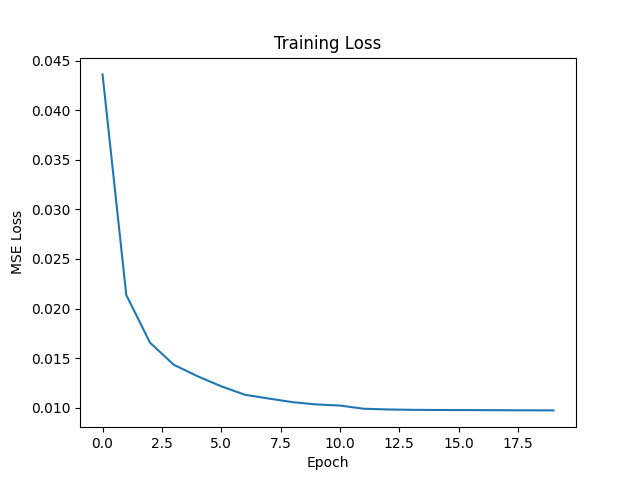
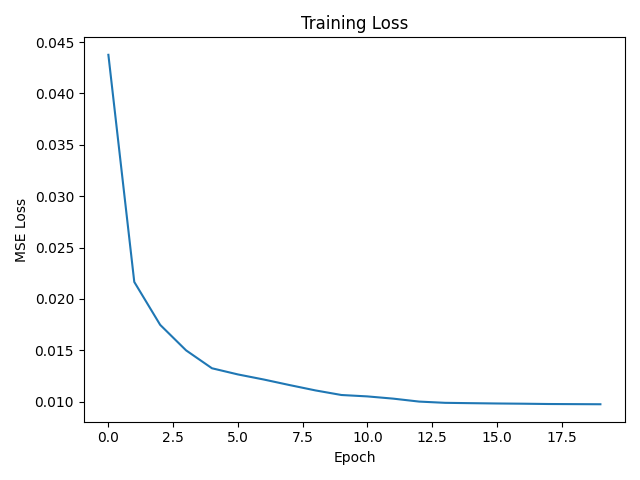
added vae and conv ae code

diff --git a/training/train.py b/training/train.py
@@ -1,6 +1,7 @@
 import os
 import sys
 import time
+
 sys.path.insert(0, os.path.dirname(os.path.dirname(os.path.abspath(__file__))))
 
 import argparse
@@ -14,6 +15,8 @@ from training.visualize import save_loss_curve, save_reconstructions
 
 def load_model(config):
     from models.v1_linear_ae import LinearAutoencoder
+    from models.v3_vae import VariationalAutoencoder
+    from models.v2_convolutional_ae import ConvolutionalAutoencoder
 
     dataset = config['dataset']
     info = DATASET_INFO[dataset]
@@ -28,10 +31,42 @@ def load_model(config):
             height=info['height'],
             width=info['width'],
         )
+    
+    elif model_name == 'v3_vae':
+        return VariationalAutoencoder(
+            input_dim=input_dim,
+            latent_dim=config['latent_dim'],
+            channels=info['channels'],
+            height=info['height'],
+            width=info['width'],
+        )
+    elif model_name == 'v2_convolutional_ae':
+        return ConvolutionalAutoencoder(
+            latent_dim=config['latent_dim'],
+            channels=info['channels'],
+            height=info['height'],
+            width=info['width'],
+        )
 
     else:
         raise ValueError(f"Unknown model: {model_name}")
 
+def vae_loss(reconstructions, images, mu, logvar):
+
+    recon_loss = nn.functional.mse_loss(
+        reconstructions,
+        images,
+        reduction='mean'
+    )
+
+    kl_loss = -0.5 * torch.mean(
+        1 + logvar - mu.pow(2) - logvar.exp()
+    )
+    beta = 0.01
+    total_loss = recon_loss + beta * kl_loss
+    return total_loss, recon_loss, kl_loss
+    
+    # return recon_loss + 0.001*kl_loss
 
 def train(config):
     device = torch.device('cuda' if torch.cuda.is_available() else 'cpu')
@@ -58,8 +93,34 @@ def train(config):
         for images, _ in train_loader:
             images = images.to(device)
 
-            reconstructions, _ = model(images)
-            loss = nn.functional.mse_loss(reconstructions, images)
+            if config['model'] == 'v3_vae':
+
+                reconstructions, mu, logvar = model(images)
+
+                loss, recon_loss, kl_loss = vae_loss(
+                    reconstructions,
+                    images,
+                    mu,
+                    logvar
+                )
+
+            elif config['model'] == 'v1_linear_ae':
+
+                reconstructions = model(images)
+
+                loss = nn.functional.mse_loss(
+                    reconstructions,
+                    images
+                )
+            
+            elif config['model'] == 'v2_convolutional_ae':
+
+                reconstructions = model(images)
+
+                loss = nn.functional.mse_loss(
+                    reconstructions,
+                    images
+                )
 
             optimiser.zero_grad()
             loss.backward()
@@ -82,7 +143,7 @@ def train(config):
     save_reconstructions(
         model, test_loader, device,
         os.path.join(config['results_dir'], filename),
-        config['dataset']
+        config['dataset'], config
     )
 
     print("Training complete.")
@@ -97,5 +158,14 @@ if __name__ == '__main__':
 
     with open(args.config, 'r') as f:
         config = yaml.safe_load(f)
+
+    # with open(args.config, 'rb') as f:
+    #     raw = f.read()
+    #     print(raw[:50])
+
+    # print("CONFIG LOADED:", config)
+    # print("CONFIG PATH:", args.config)
+    # print("ABS PATH:", os.path.abspath(args.config))
+    # print("FILE EXISTS:", os.path.exists(args.config))
 
     train(config)

diff --git a/models/v2_convolutional_ae.py b/models/v2_convolutional_ae.py
@@ -1,0 +1,120 @@
+import torch
+import torch.nn as nn
+
+
+class ConvolutionalAutoencoder(nn.Module):
+
+    def __init__(
+        self,
+        latent_dim=32,
+        channels=1,
+        height=28,
+        width=28
+    ):
+
+        super().__init__()
+
+        self.latent_dim = latent_dim
+        self.channels = channels
+        self.height = height
+        self.width = width
+
+        # Encoder
+        self.encoder = nn.Sequential(
+
+            # [B, 1, 28, 28]
+            nn.Conv2d(
+                in_channels=channels,
+                out_channels=32,
+                kernel_size=3,
+                stride=2,
+                padding=1
+            ),
+
+            # [B, 32, 14, 14]
+            nn.ReLU(),
+
+            nn.Conv2d(
+                in_channels=32,
+                out_channels=64,
+                kernel_size=3,
+                stride=2,
+                padding=1
+            ),
+
+            # [B, 64, 7, 7]
+            nn.ReLU(),
+        )
+
+        with torch.no_grad():
+            dummy = torch.zeros(1, channels, height, width)
+            x = self.encoder(dummy)
+            self.flatten_dim = x.view(1, -1).shape[1]
+
+        # Latent projection
+        self.fc_encoder = nn.Linear(
+            self.flatten_dim,
+            latent_dim
+        )
+
+        # Decoder projection
+        self.fc_decoder = nn.Linear(
+            latent_dim,
+            self.flatten_dim
+        )
+
+        # Decoder
+        self.decoder = nn.Sequential(
+
+            nn.ConvTranspose2d(
+                in_channels=64,
+                out_channels=32,
+                kernel_size=3,
+                stride=2,
+                padding=1,
+                output_padding=1
+            ),
+
+            # [B, 32, 14, 14]
+            nn.ReLU(),
+
+            nn.ConvTranspose2d(
+                in_channels=32,
+                out_channels=channels,
+                kernel_size=3,
+                stride=2,
+                padding=1,
+                output_padding=1
+            ),
+
+            # [B, 1, 28, 28]
+            nn.Sigmoid()
+        )
+
+    def encode(self, x):
+        x = self.encoder(x)
+
+        self.feature_shape = x.shape  # 👈 SAVE THIS
+
+        x = x.view(x.size(0), -1)
+
+        z = self.fc_encoder(x)
+        return z
+
+    def decode(self, z):
+
+        x = self.fc_decoder(z)
+
+        x = x.view(self.feature_shape)
+
+        x = self.decoder(x)
+
+        return x
+
+    def forward(self, x):
+
+        z = self.encode(x)
+
+        reconstruction = self.decode(z)
+
+        return reconstruction

diff --git a/models/v3_vae.py b/models/v3_vae.py
@@ -1,0 +1,59 @@
+import torch.nn as nn
+import torch
+
+class VariationalAutoencoder(nn.Module):
+    def __init__(self, input_dim=784, latent_dim=32, channels=1, height=28, width=28):
+        super().__init__()
+        self.input_dim = input_dim
+        self.latent_dim = latent_dim
+        self.channels = channels
+        self.height = height
+        self.width = width
+
+        self.encoder = nn.Sequential(
+            nn.Linear(input_dim, 256),
+            nn.ReLU(),
+
+            nn.Linear(256, 64),
+            nn.ReLU(),
+        )
+
+        self.fc_mu = nn.Linear(64, latent_dim)
+        self.fc_logvar = nn.Linear(64, latent_dim)
+
+        self.decoder = nn.Sequential(
+            nn.Linear(latent_dim, 64),
+            nn.Linear(64, 256),
+            nn.Linear(256, input_dim),
+            nn.Sigmoid(),
+        )
+    
+    def encode(self, x):
+        x = x.view(x.size(0), -1)
+        h = self.encoder(x)
+
+        mu = self.fc_mu(h)
+        logvar = self.fc_logvar(h)
+
+        return mu, logvar
+    
+    def decode(self, x):
+        x = self.decoder(x)
+        return x.view(x.size(0), self.channels, self.height, self.width)
+    
+    def reparameterize(self, mu, logvar):
+        std = torch.exp(0.5 * logvar)
+
+        eps = torch.randn_like(std)
+
+        return mu + eps * std
+    
+    def forward(self, x):
+        mu, logvar = self.encode(x)
+
+        z = self.reparameterize(mu, logvar)
+
+        reconstruction = self.decode(z)
+
+        return reconstruction, mu, logvar
+    

diff --git a/training/visualize.py b/training/visualize.py
@@ -19,16 +19,39 @@ def save_loss_curve(train_losses, path):
     plt.close()
 
 
-def save_reconstructions(model, test_loader, device, path, dataset):
+def save_reconstructions(model, test_loader, device, path, dataset, config):
+    model_type = config["model"]
     model.eval()
     images, _ = next(iter(test_loader))
     images = images[:8].to(device)
+    info = DATASET_INFO[dataset]
 
     with torch.no_grad():
-        reconstructions, _ = model(images)
+        if model_type == "v3_vae":
+            reconstructions, mu, logvar = model(images)
+
+        elif model_type == "v1_linear_ae":
+            reconstructions = model(images)
+
+        elif model_type == "v2_convolutional_ae":
+            reconstructions = model(images)
+            
+    if model_type == "v1_linear_ae":
+        images = images.view(
+            -1,
+            info['channels'],
+            info['size'],
+            info['size']
+        )
+
+        reconstructions = reconstructions.view(
+            -1,
+            info['channels'],
+            info['size'],
+            info['size']
+        )
 
     fig, axes = plt.subplots(2, 8, figsize=(16, 4))
-    info = DATASET_INFO[dataset]
 
     for i in range(8):
         if info['channels'] == 1:
